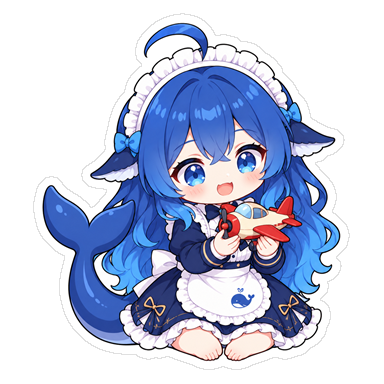
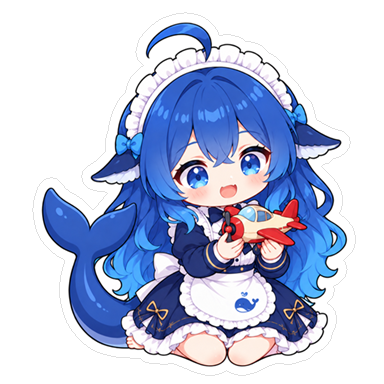
Fix manga, kneeling, and monitor details in theme animations

Changed region(s): [[0.0625, 0.0312, 0.9375, 0.9688]]

diff --git a/AGENTS.md b/AGENTS.md
@@ -211,6 +211,8 @@ This file defines the initial location of the main window. When stopping draggin
 
 Theme assets are maintained separately from the desktop window implementation. Follow `themes/job.updateThemes.prompt.md` and mark an animation complete only after its files and metadata are verified. `themes/loli_maid` currently contains 10 animation series and 34 frames: `coffee`, `espresso`, `latte_art`, `homework`, `reading_manga`, `sleeping`, `playing`, `programming`, `drawing`, and `transformer`. `espresso` has five frames (two puck-preparation frames followed by three latte-making frames), and `transformer` has five transformation stages; all other series have three frames. Respect explicit `xN` stage counts in the prompt. Frames use contiguous `<animation>_1.png` names, are 384×384 RGBA PNGs, and have a single connected white sticker backing with about 8 pixels of padding, a one-pixel `#E0E0E0` outer edge, and fully transparent exterior. Keep scale and placement consistent across an animation; use a stable outline for ordinary actions and let transformation outlines follow the changing body shape. Preserve existing character references and completed animations when adding series. `index.json` stores distinct frame counts, not playback repetition counts.
 
+For `reading_manga`, the viewer sees the book's outer covers; a turning interior page rises behind those covers and stays attached to the binding. For `playing`, the character kneels with smooth knees in front and feet folded behind under the skirt. For `programming`, the viewer sees the monitor's rear casing with blue `C++` lettering, never screen contents. Preserve these corrections when updating later frames.
+
 The desktop player uses the first theme in `themes/theme.json`, selects an animation series randomly within that theme, shows one frame per second, and plays its complete frame sequence three consecutive times in total. It selects the next series randomly only after the last frame of the third playthrough, and seeds its random generator afresh on each process start. `index.json` defines the distinct frame count. Playback is implemented by `Agents/Desktop.cpp` and the GUI timer, separately from the asset update job.
 
 ## Important Learning

diff --git a/README.md b/README.md
@@ -89,10 +89,10 @@ HTTP/HTTPS 网页 GET 使用 Vlpp 的 `HttpClientApi`。带认证的模型 POST 
 | `espresso` | 5 | 布粉、压粉两帧，再用 Decent Espresso 咖啡机萃取、打奶泡、倒奶三帧 |
 | `latte_art` | 3 | 倒奶、形成爱心、完成拿铁拉花 |
 | `homework` | 3 | 做作业、思考、继续书写 |
-| `reading_manga` | 3 | 躺在沙发上读漫画、翻页、开心地笑 |
+| `reading_manga` | 3 | 躺在沙发上读漫画、翻页、开心地笑；外封面朝向观众，内页在封面后方翻动 |
 | `sleeping` | 3 | 趴在地上睡觉，伴随轻微呼吸与尾巴变化 |
-| `playing` | 3 | 坐在地上握住、举起和玩耍玩具飞机 |
-| `programming` | 3 | 坐人体工学椅在书桌前编程、思考、继续输入 |
+| `playing` | 3 | 跪坐在地上握住、举起和玩耍玩具飞机，双膝在前，双脚向后收在裙下 |
+| `programming` | 3 | 坐人体工学椅在书桌前编程、思考、继续输入；可见的显示器背壳印有蓝色 `C++` |
 | `drawing` | 3 | 用电子画板绘制自己的草稿、描线、上色 |
 | `transformer` | 5 | 从女仆经过机械折叠、半鲸形、机械鲸鱼变为蓝色鲸鱼 |
 
